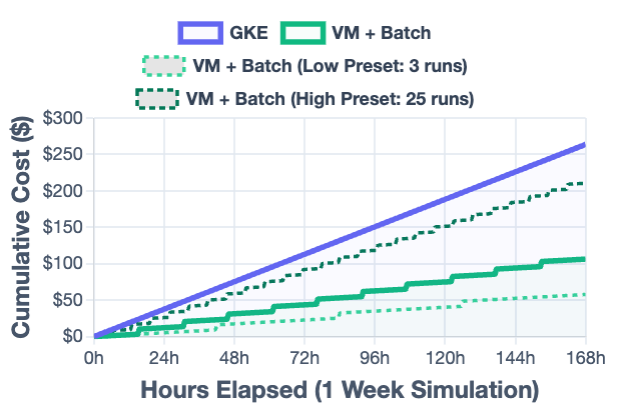
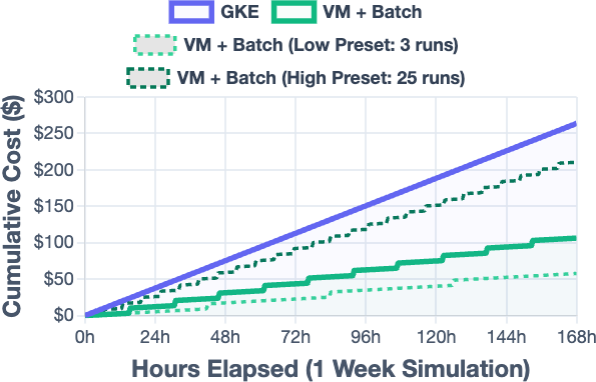
Widen the column 2 diagrams; move slack below the footer
- body grid `auto 1fr auto` -> `auto auto auto` with align-content: start, so
  the footer follows the band and spare space falls beneath it rather than
  sitting between the band and the footer (1.25in gap -> 0.25in)
- Where It Stands moves above What's Next; Try It closes column 1
- figures 73% -> 86% (8.73in -> 10.40in). A straight widen stalls at 82%, so
  cost-time.png was trimmed of dead margin (621x420 -> 596x382, which also
  widens its aspect and so costs less height) and .figure padding cut to 0.05in

86% is the ceiling: 88% overflows. batch-service.png has no trimmable margin,
and the band's height is set by its text column, not its figure -- so more
width now requires cutting content rather than adjusting CSS.

47.72in of 48in.

diff --git a/posters/acc2026/poster.html b/posters/acc2026/poster.html
@@ -12,7 +12,8 @@
     background: #edf1f5;
     color: #2c2c2c;
     display: grid;
-    grid-template-rows: auto 1fr auto;
+    grid-template-rows: auto auto auto;
+    align-content: start;
     padding: 0.35in;
     gap: 0.25in;
   }
@@ -328,11 +329,11 @@
     background: white;
     border: 2px solid #c8d6e5;
     border-radius: 0.09in;
-    padding: 0.12in;
+    padding: 0.05in;
     margin: 0.12in 0;
     text-align: center;
   }
-  .figure img { width: 73%; height: auto; display: block; margin: 0 auto; }
+  .figure img { width: 86%; height: auto; display: block; margin: 0 auto; }
 
   /* Two-path comparison */
   .paths {
@@ -509,6 +510,14 @@
       </ul>
     </div>
 
+    <div class="card">
+      <h2>Try It</h2>
+      <div class="qr-row">
+        <img class="qr-code" src="images/qrcode-galaxy-how-to.png" alt="QR code linking to instructions for launching your own Galaxy on AnVIL">
+        <p>Scan the QR code to launch your own Galaxy on AnVIL, connect to workspace data, and run a vetted workflow.</p>
+      </div>
+    </div>
+
   </div>
 
   <!-- ══════════ COLUMN 2 ══════════ -->
@@ -588,6 +597,15 @@
     </div>
 
     <div class="card">
+      <h2>Where It Stands</h2>
+      <ul class="annotation-list">
+        <li><strong>Core features tested</strong></li>
+        <li><strong>Terra Dev next, then Prod</strong></li>
+        <li><strong>Release announcement by ACC</strong></li>
+      </ul>
+    </div>
+
+    <div class="card">
       <h2>What's Next</h2>
       <p>Building the tool panel dominates startup today.</p>
       <ul class="annotation-list">
@@ -596,14 +614,6 @@
         <li><strong>Startup down to a ~6 min target</strong></li>
         <li><strong>Cost transparency and estimates</strong></li>
       </ul>
-    </div>
-
-    <div class="card">
-      <h2>Try It</h2>
-      <div class="qr-row">
-        <img class="qr-code" src="images/qrcode-galaxy-how-to.png" alt="QR code linking to instructions for launching your own Galaxy on AnVIL">
-        <p>Scan the QR code to launch your own Galaxy on AnVIL, connect to workspace data, and run a vetted workflow.</p>
-      </div>
     </div>
 
   </div>
@@ -635,6 +645,7 @@
             </ul>
           </div>
         </div>
+
 
         <div class="callout">
           Broader rollout is <span class="highlight-text">pending NIH policy guidance</span> on large language models with controlled-access data. <strong>The policy question, not the engineering, decides how this reaches you.</strong>
